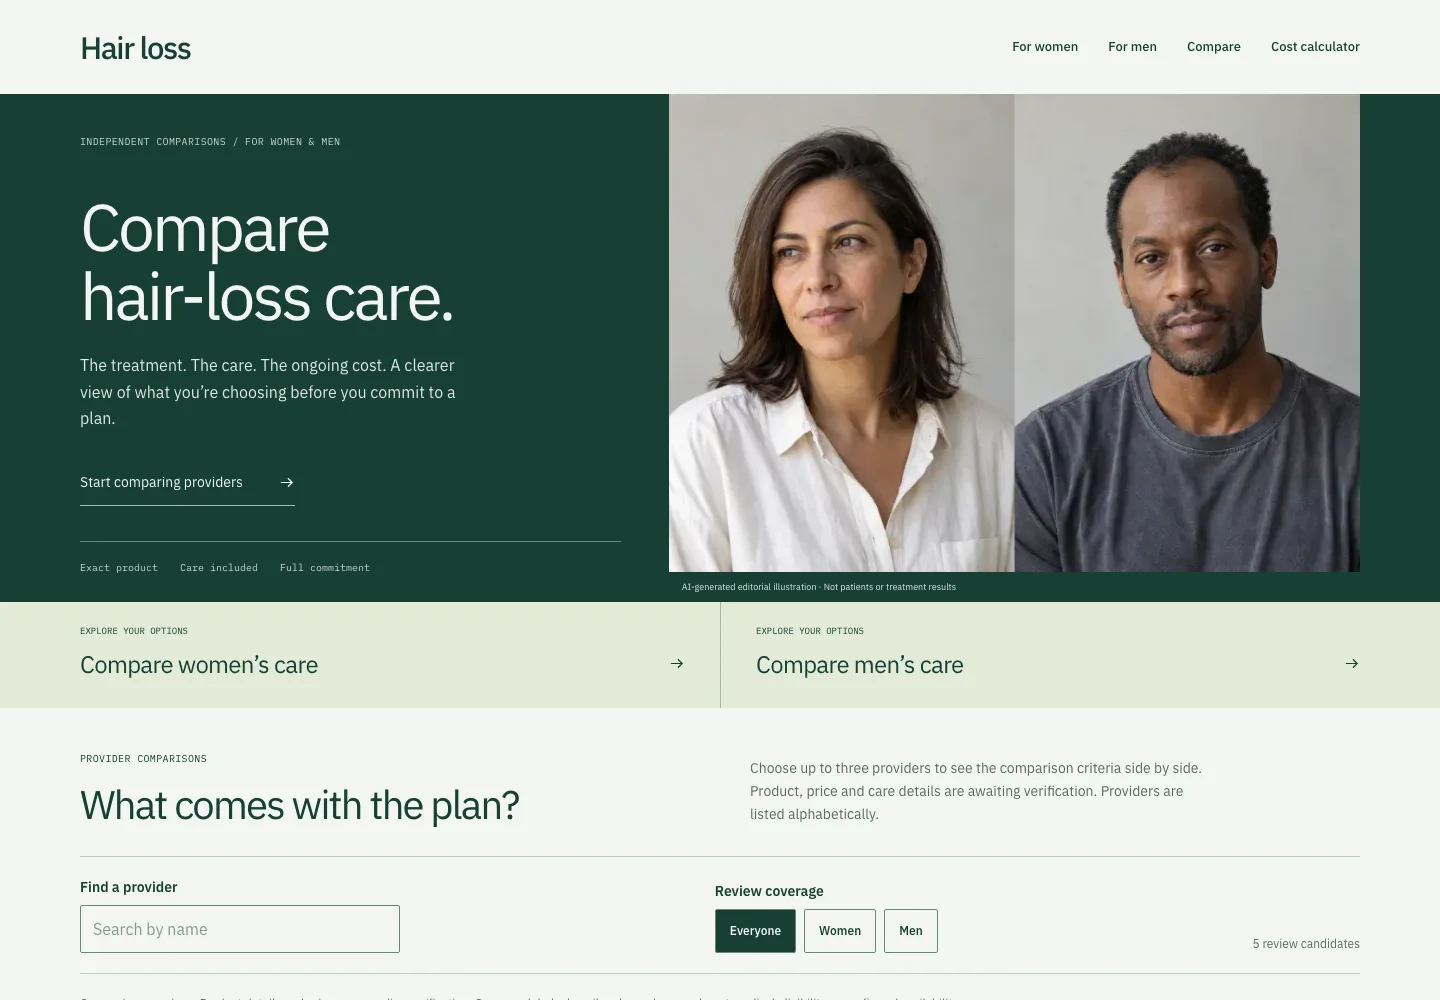
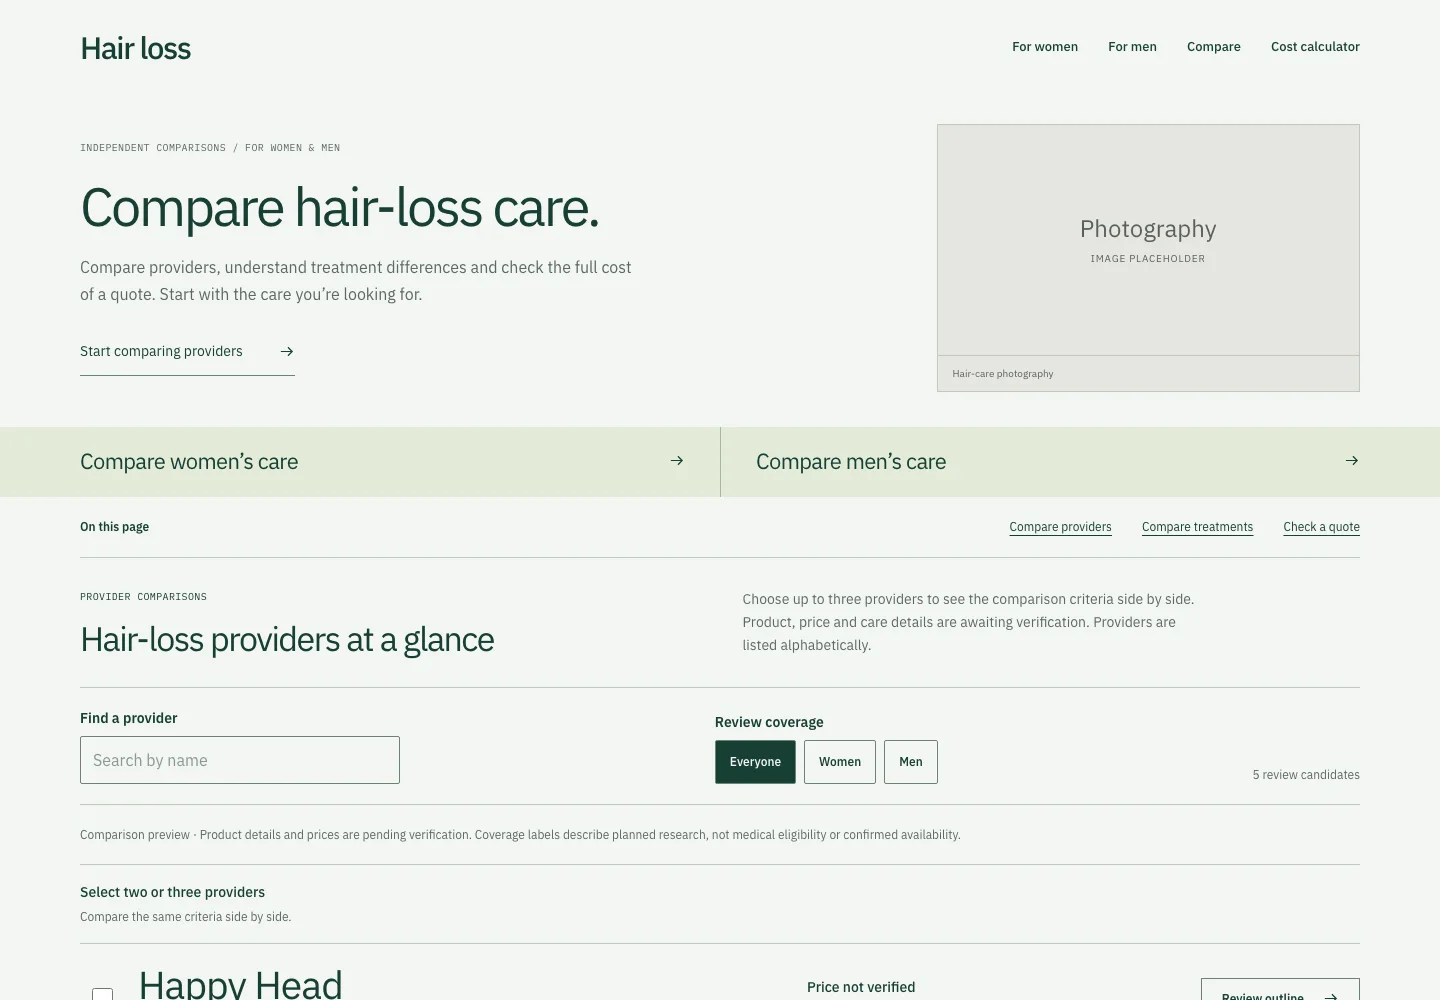
Sync health preview thumbnails with comparison layouts

diff --git a/components/thumbnails/HealthScaffoldThumb.tsx b/components/thumbnails/HealthScaffoldThumb.tsx
@@ -5,7 +5,7 @@ import { comparisonScaffolds } from "@/lib/portfolio-development";
 export function HealthScaffoldThumb({ edition }: { edition: "hair" | "desire" }) {
   const project = comparisonScaffolds.find(item => item.slug === (edition === "hair" ? "hair-index" : "desire-index"))!;
   return <figure>
-    <Image src={`/images/health-previews/${edition}.webp`} width={1440} height={1000} sizes="(max-width: 640px) 90vw, 384px" alt={`${project.name} homepage preview with ${edition === "hair" ? "original women’s and men’s portraits, direct comparison paths and a provider shortlist" : "editorial photography, broad sexual-health topics and ED provider comparisons"}`} className="h-auto w-full rounded-lg border border-border" />
+    <Image src={`/images/health-previews/${edition}.webp`} width={1440} height={1000} sizes="(max-width: 640px) 90vw, 384px" alt={`${project.name} homepage preview with ${edition === "hair" ? "a photography placeholder, women’s and men’s comparison paths and a provider shortlist" : "a photography placeholder, broad sexual-health topics and ED provider comparisons"}`} className="h-auto w-full rounded-lg border border-border" />
     <figcaption className="mt-2 text-[11px] leading-relaxed text-muted">Homepage preview. Final name undecided.</figcaption>
   </figure>;
 }
